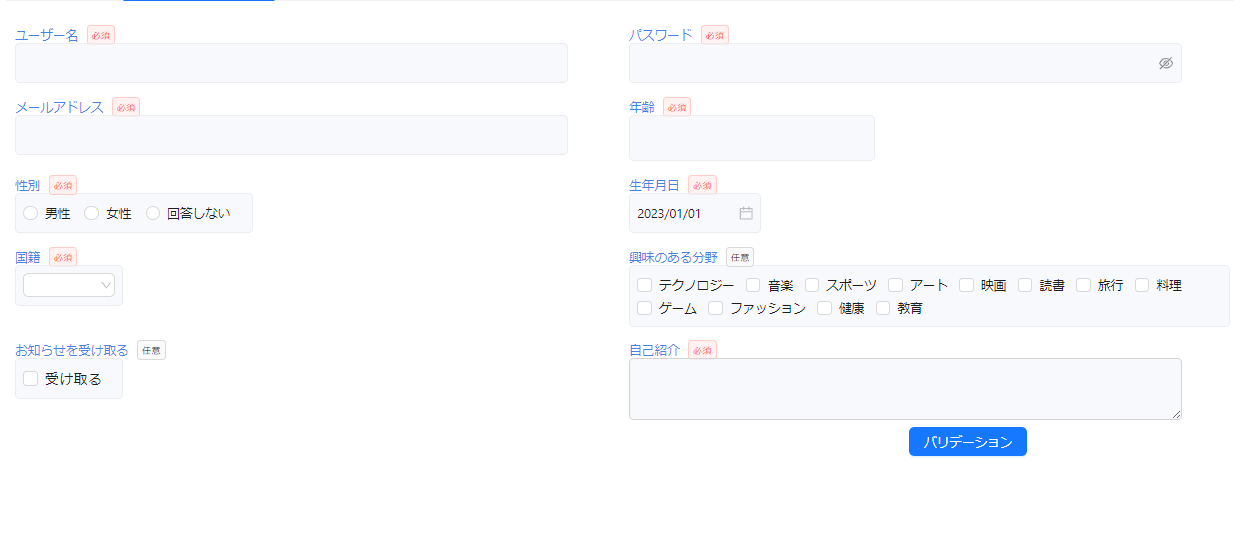
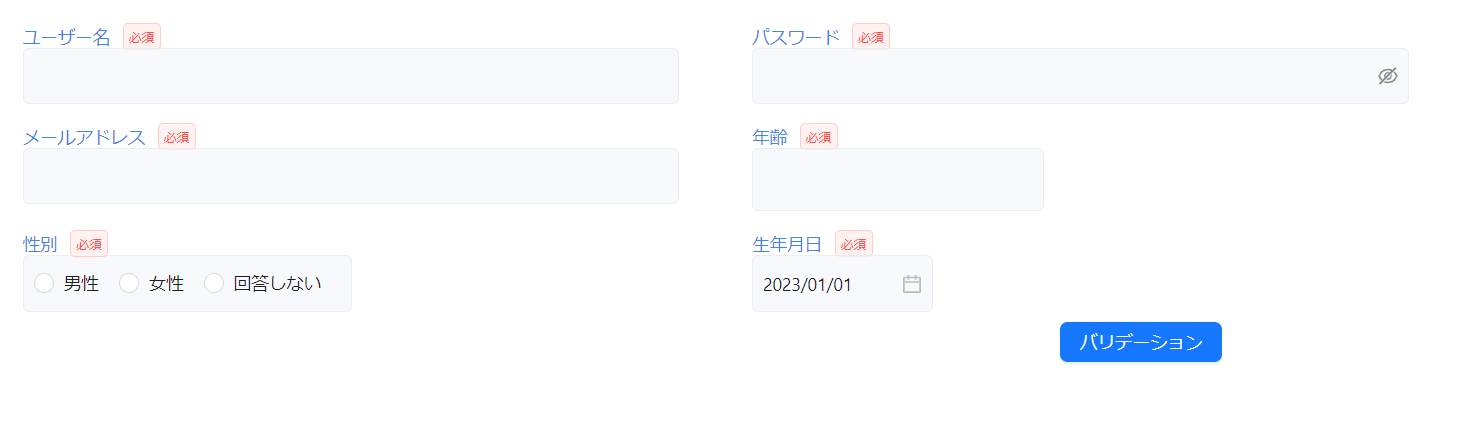
特徴の説明文追加

diff --git a/docs/know-cs-component/features.md b/docs/know-cs-component/features.md
@@ -8,76 +8,131 @@ title: 特徴
 省力化コンポーネントには以下の 3 つの特徴があります。
 
 - 画面項目定義が 1-2 行で書ける
-- バリデーション処理の簡略化
-- API の呼び出しを簡略化
+- バリデーション定義が簡潔に書ける
+- 高機能なボタン
 
 以上の 3 点についてそれぞれ説明をします。
 
-## 画面項目定義が１行で書ける
+## 画面項目定義が 1-2 行で書ける
 
-まずは Item が 2 つ並んでいる画面を考えて見ます。
+省力化コンポーネントを使用することで画面項目定義を 1-2 行で書くことができます。
+
+以下の画面を例に考えてみます。
+
+![省力化コンポーネントの例](/img/無題.png)
+
+画面には 2 種類の入力項目があります。省力化コンポーネントを用いるとこれらの項目をたった 1-2 行で定義することができます。
+userName や password が画面の各項目と対応しています。
+
+```typescript
+// View 定義
+export const ConceptApplyedPane: React.FC = () => {
+  const view: RegisterUserView = useCsView({
+    userName: useCsInputTextItem("ユーザー名", useInit(""), stringRule(true, 3, 30)),
+    password: useCsInputPasswordItem("パスワード", useInit(""), stringRule(true, 8, 16)),
+  })
+  return (
+    <>
+      <AxTableLayout
+        view={view}
+        colSize={2}
+      />
+  )}
+```
+
+仮に入力項目を増やしたい場合でも、1 項目につき 1-2 行コードを増やすだけで簡単に実装できます。
+より詳しい実装方法については[View と Item の基本](http://localhost:3000/dev-react-cs-document/docs/implementation-guide/basic-of-view-and-item)を参考にしてください。
+
+```typescript
+// View 定義
+export const ConceptApplyedPane: React.FC = () => {
+  const view: RegisterUserView = useCsView({
+    userName: useCsInputTextItem("ユーザー名", useInit(""), stringRule(true, 3, 30)),
+    password: useCsInputPasswordItem("パスワード", useInit(""), stringRule(true, 8, 16)),
+    mailAddress: useCsInputTextItem("メールアドレス", useInit(""), stringRule(true, 8, 20)),
+    age: useCsInputNumberItem("年齢", useInit(), numberRule(true, 1, 150)),
+    sex: useCsRadioBoxItem("性別", useInit(""), stringRule(true),
+      selectOptionStrings(["男性", "女性", "回答しない"])),
+    birthDay: useCsInputDateItem("生年月日", useInit("2023-01-01"), stringRule(true)),
+  })
+  return (
+    <>
+      <AxTableLayout
+        view={view}
+        colSize={2}
+      />
+  )}
+```
 
 ![省力化コンポーネントの例](/img/image.png)
-この画面に必要なコードを以下に示します。
-
-View 定義
-
-```typescript
-userName: useCsInputTextItem("ユーザー名", useInit(""), stringRule(true, 3, 30)),
-password: useCsInputPasswordItem("パスワード", useInit(""), stringRule(true, 8, 16)),
-```
-
-呼び出し元
-
-```typescript
-<AxTableLayout
-  view={view}
-  colSize={propColSize}
-  labelPlacement={labelPlacement}
-  labelWidth={labelWidth}
-  hideLabel={hideLabel}
-/>
-```
-
-このように画面項目 1 つに対して画面項目定義で 1 行、呼び出し元画面で 1 行を書くことで入力フォームが簡単に出来上がります。
 
 ## バリデーション定義が簡潔に書ける
 
-次にバリデーション定義が簡潔に書けるについて説明をします。省力化コンポーネントでバリデーションを実施するためには以下のように書きます。
+省力化コンポーネントを使用することでバリデーション定義が簡潔に書けます。
 
-View 定義
+Item 定義の第 3 引数に、実施したいバリデーションルール（必須、最小文字数、最大文字数）を記載することでバリデーションを定義することができます。
 
 ```typescript
-title: useCsInputTextItem("タイトル", useInit(""), stringRule(true, 1, 100), RW.Editable, "タイトル"),
-description: useCsInputTextItem("説明", useInit(""), stringRule(true, 1, 100), RW.Editable, "説明"),
+// View 定義
+export const ConceptApplyedPane: React.FC = () => {
+  const view: RegisterUserView = useCsView({
+    userName: useCsInputTextItem("ユーザー名", useInit(""), stringRule(true, 3, 30)),
+    password: useCsInputPasswordItem("パスワード", useInit(""), stringRule(true, 8, 16)),
+  })
+  return (
+    <>
+      <AxTableLayout
+        view={view}
+        colSize={2}
+      />
+  )}
 ```
 
-このように Item の第 3 引数に行いたいバリデーションルールを記載することで簡単にバリデーションを定義することができます。
+カスタムバリデーションを用いると「半角数字」、「全角カナ」などより詳細なバリデーションを定義することも可能です。
+より詳しい実装方法については[バリデーション](http://localhost:3000/dev-react-cs-document/docs/implementation-guide/validation)を参考にしてください。
 
 ## 高機能なボタン
 
-最後に、高機能なボタンについて説明をします。省力化コンポーネントでいう高機能なボタンとは、API 呼び出しやバリデーション実行などの機能が搭載されたボタンです。
-高機能なボタンを使用することで API やバリデーションの実行が簡単にできます。
-以下に、コードを示します。
-
-View 定義
+高機能なボタンを利用することで API 呼び出しやバリデーション実行など多様な機能を使用することができます。
+View 定義に Item とボタンを定義し、ボタンコンポーネントに必要なパラメータを渡すだけで API 呼び出しやバリデーションを実装できます。
+より詳しい実装方法については[ボタンとイベント](http://localhost:3000/dev-react-cs-document/docs/implementation-guide/button-and-event)を参考にしてください。
 
 ```typescript
-title: useCsInputTextItem("タイトル", useInit(""), stringRule(true, 1, 100), RW.Editable, "タイトル"),
-description: useCsInputTextItem("説明", useInit(""), stringRule(true, 1, 100), RW.Editable, "説明"),
-createButton: useCsRqMutateButtonClickEvent(usePostTodo()),
+type TodosPostView = CsView & {
+  title: CsInputTextItem;
+  description: CsInputTextItem;
+  createButton: CsRqMutateButtonClickEvent<
+    {
+      data: TodoRegistration;
+    },
+    Todo
+  >;
+};
+
+// View の初期化
+export const useTodosPostView = (): TodosPostView => {
+  return useCsView({
+    title: useCsInputTextItem(
+      "タイトル",
+      useInit(""),
+      stringRule(true, 1, 100),
+      RW.Editable,
+      "タイトル"
+    ),
+    description: useCsInputTextItem(
+      "説明",
+      useInit(""),
+      stringRule(true, 1, 100),
+      RW.Editable,
+      "説明"
+    ),
+    createButton: useCsRqMutateButtonClickEvent(usePostTodo()),
+  });
+};
 ```
 
-呼び出し元
-
 ```typescript
-<AxMutateButton
-  type="primary"
-  event={updateView.updateButton}
-  validationViews={[updateView]}
->
-  決定
+<AxMutateButton event={view.createButton} validationViews={[view]}>
+  post
 </AxMutateButton>
 ```
-
-このように View 定義に Item とボタンを定義し、呼び出し元画面で必要なパラメータを渡すだけで簡単に API やバリデーションを実行できます。
